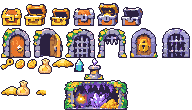
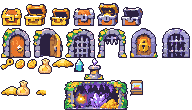
Core-loop art, asks: puzzle pieces for the found row and a special shop good, for the glints builder
Why: handoff-prompts/loop-art-cutouts.md item 5 (the glints builder, Step
14 slice B, asked by message for piece-grey, piece-gold and goods-special).

What: piece-grey, piece-gold (group levels) from the P05 HUD sheet's bottom
row; the plate cuts the pieces off below their side knobs, so the visible
top is mirrored about the knob row to close them. 12x12, not the 8x8
asked: at 8 the knobs vanish (fill 0.2-0.5 tried). goods-special (group
treasure, 16x16): the Hall atlas's crown on a cushion in its glass case.
Appended only: every existing look's pixels and rectangle are unchanged
(compared against HEAD).

Ran: make.py, selfcheck.py (0), npm run build, check: green. Looked at
loops-asks-4x.png. Not verified in the game (the glints code switches by id).
Measure row moved: none. Undo: revert the commit.

Claude-Session: https://claude.ai/code/session_017WiGzEN1QbSnHzXNqV4XSt

Changed region(s): [[0.6562, 0.7091, 0.75, 0.8727]]

diff --git a/tools/art/props/loops.py b/tools/art/props/loops.py
@@ -280,3 +280,30 @@ CLOTH = ('hall-banner-tower', 'hall-banner', 'hall-banner-laurel', 'hall-drape',
 def hall(which):
     pal = HALLR + ramps('pink') if which in CLOTH else HALLR
     return grab('hall', HALL[which], 0.2, pal, key=HALLKEY, grid=True)
+
+
+# ---- asks from the core-loop builders (brief item 5)
+def puzzle_piece(gold):
+    """The glints builder's found row (Step 14 slice B): P05 HUD sheet's bottom row, the grey and the gold jigsaw
+    piece. The plate's edge cuts each piece off below its side knobs, so the visible top is mirrored about the
+    knob row (y 498) to close it: a piece with knobs above and below is still a jigsaw piece.
+    DRAFT: 12 x 12, not the 8 x 8 asked: at 8 the knobs go and it is a blob (tried fill 0.2-0.5)."""
+    from PIL import Image, ImageOps
+    from srcimport import _cache, sheet
+    x0, x1 = (505, 572) if gold else (436, 504)
+    top = sheet('hud').crop((x0, 455, x1, 498))
+    im = Image.new('RGBA', (x1 - x0, 86), (245, 245, 244, 255))
+    im.paste(top, (0, 0))
+    im.paste(ImageOps.flip(top), (0, 43))
+    _cache['hud-piece'] = im
+    pal = ramps('gold', 'orange') if gold else ramps('stone', 'castle', 'metal')
+    return grab('hud-piece', (0, 0, x1 - x0, 86), 0, pal, key=(245, 245, 244), size=(12, 12), fill=0.3,
+                majority=False)
+
+
+def goods_special():
+    """The glints builder's once-only shop good: the Hall atlas's crown on a cushion in its glass case."""
+    g = grab('hall', HALL['hall-case-crown'], 0, HALLR + ramps('pink'), key=HALLKEY, grid=True, size=(14, 16))
+    out = new(16, 16)
+    paste(out, g, 1, 0)
+    return out

diff --git a/tools/art/props/loopshots.py b/tools/art/props/loopshots.py
@@ -125,7 +125,24 @@ def hall():
     return scene
 
 
-SCENES = {'rides': rides, 'powers': powers, 'treasure': treasure, 'hall': hall}
+def asks():
+    """the glints builder's asks in place: an entrance with its sign, pie and found pieces; the shop's goods with the
+    special one among them"""
+    lv, LL = looks('levels')
+    tr, TL = looks('treasure')
+    pr, PL = looks('parts')
+    scene = ground(140)
+    place(scene, frame(lv, LL['level-entry-arch']), 70, 140)
+    place(scene, frame(lv, LL['level-sign']), 100, 140)
+    for i, k in enumerate(('level-pie-2', 'piece-gold', 'piece-grey', 'piece-grey')):
+        scene.alpha_composite(frame(lv, LL[k]), (60 + i * 14, 94))
+    for i, k in enumerate(('shop-goods', 'goods-special', 'shop-goods')):
+        img, L = (tr, TL) if k == 'goods-special' else (pr, PL)
+        place(scene, frame(img, L[k]), 196 + i * 22, 140)
+    return scene
+
+
+SCENES = {'rides': rides, 'powers': powers, 'treasure': treasure, 'hall': hall, 'asks': asks}
 
 if __name__ == '__main__':
     os.makedirs(OUT, exist_ok=True)

diff --git a/tools/art/props/make.py b/tools/art/props/make.py
@@ -109,6 +109,7 @@ def looks_sheets():
     for n in range(5):
         s.add('level-pie-%d' % n, dv.level_pie(n))
     s.add('level-sign', dv.level_sign())
+    s.add('piece-grey', lo.puzzle_piece(False)); s.add('piece-gold', lo.puzzle_piece(True))  # glints builder's ask
     out.append(('levels', 'props/levels.png', s))
     # ---- the core loops' rides (loops.py: P04 vehicle-and-mount sheet; handoff-prompts/loop-art-cutouts.md)
     s = Sheet(192)
@@ -149,6 +150,7 @@ def looks_sheets():
     s.add('gold-pile', lo.gold_pile()); s.add('gem', lo.gem()); s.add('gem-pedestal', lo.gem_pedestal())
     s.newrow()
     s.add('hoard', lo.hoard(False)); s.add('hoard-taken', lo.hoard(True)); s.add('vault-cave', lo.vault_cave())
+    s.add('goods-special', lo.goods_special())  # the glints builder's once-only shop good
     out.append(('treasure', 'props/treasure.png', s))
     # ---- the core loops' Hall of Legends pieces (loops.py: P04 hall-of-legends atlas)
     s = Sheet(256)

diff --git a/docs/mechanisms/asset-coverage.md b/docs/mechanisms/asset-coverage.md
@@ -26,13 +26,13 @@ Rows go stale as the look3 lanes push: re-check a row against the current file b
 | Bodies (things you lift, hit or stand by) | 7 | 1 | 4 | 2 |
 | Ground tiles (16 px) | 6 | 2 | 4 | 0 |
 | Backdrops | 14 | 0 | 14 | 0 |
-| Interactive looks (props) | 26 | 17 | 7 | 0 |
+| Interactive looks (props) | 27 | 18 | 7 | 0 |
 | Decor | 43 | 12 | 25 | 6 |
 | Effects | 9 | 5 | 4 | 0 |
 | UI and HUD | 42 | 6 | 31 | 5 |
 | Sound effects | 42 | 29 | 7 | 6 |
 | Music | 8 | 0 | 0 | 8 |
-| **All** | **214** | **85** | **100** | **27** |
+| **All** | **215** | **86** | **100** | **27** |
 
 ## Path keys
 
@@ -193,6 +193,7 @@ Cuts live in tools/art/props/drive.py, round3.py and looks_parts.py.
 | `look:powers` | uses-approved | `P05/p05-rare-powers-pickups-source.png` (opaque pale ground, key (247,245,243)): row 1 fixtures y 8-134, row 2 orbs y 140-219, row 3 lost sequence y 223-326 (spark (146,225)-(192,290), stars (196,224)-(296,262), orb on its swoosh (353,223)-(452,326)), row 4 loose pieces y 338-426, row 5 pickup sequence and cloud poof y 426-512 (x boxes in loops.py). Group `powers`: pickup-*, item-*, power-fixture-*, fx-pickup-glow/-get, fx-power-lost, fx-poof. | The plate's row 5 runs off its bottom edge (the column and burst are cut at y 512). item-spring is mush at 16 px. No game code draws them yet. |
 | `look:treasure` | uses-approved | `P07/vibrant-platformer-interactables-sprite-sheet.png` row 1 chests (wood closed (195,95)-(330,215), open (370,70)-(505,215), empty (545,95)-(670,215); iron the same at x 800-1290), row 2 doors (ring door shut (35,240)-(212,415), open (212,240)-(390,415), portcullis down (410,240)-(595,415), raised (600,240)-(785,415)), key (30,980)-(130,1065), coins (1005,985)-(1165,1065), sack (780,960)-(875,1075), gem on post (610,795)-(745,935); `P05/p05-secrets-doors-breakables-source.png` padlocked door (102,68)-(200,172), barred door (424,68)-(524,172), vault cave (526,372)-(758,482); `P04/chibi-pixel-interactables-sprite-sheet.png` crystal (240,380)-(320,470); `P04/cantina-tavern-hub-tileset.png` coin heap (566,1040)-(643,1075). Group `treasure` (loops.py). | `hoard`/`hoard-taken` (32x16: the sack on the heap; a few coins) are ready for depot-hoard, whose placement still says `goods` (Step 16's to repoint). P05's own vault gold pile sits on the cave floor and does not cut clean. |
 | `look:hall` | uses-approved | `P04/hall-of-legends-tile-atlas.png` (opaque pale ground with drawn cell lines: key (247,247,247), grid=True), scale 0.2: plinths (38-272, 398-495), niches (610-1095, 395-497), plaques/shield/banners/drape (38-1320, 510-608), lantern/torch/braziers (40-610, 598-684), doors/window/portals (30-1125, 692-808), statues and keepsakes (35-1420, 885-1062), gold-edged frames (362-517, 114-192); per-piece boxes in loops.HALL. Group `hall`. | The wood doors lose their pale stone arch to the ground key (wood and gold rim only). Statues are thin at 0.2. hall-frame/-frame-star are about 14x16: small for a hall picture; scale up if the picture needs it. No game code draws them yet. |
+| `look:piece` | uses-approved | `P05/p05-ui-hero-party-hud-source.png` bottom row: grey piece x 436-504, gold x 505-572, y 455-498 (the plate's edge cuts them below the side knobs; mirrored about y 498 to close). `piece-grey`, `piece-gold` 12x12 (group `levels`); `goods-special` is the hall-case-crown cut at 14x16 (group `treasure`). | At 8 px the piece is a blob, so 12. |
 
 ## Decor
 

diff --git a/tools/art/props/README.md b/tools/art/props/README.md
@@ -189,6 +189,10 @@ bottom-centred over an entrance; `level-pie-0`..`4` 12x12 (none, a quarter, half
   `hall-urn`, `hall-frame{,-star}`. The plate's banner mauve needs the pink ramp (cloth pieces only: on stone, pink
   speckles). The wood doors lose their pale stone arch to the ground key. The walls, floors and arches are the ground
   lane's tiles, not these.
+- **Asks from core-loop builders (item 5).** The glints builder (Step 14 slice B): `piece-grey`, `piece-gold` in
+  group `levels` (P05 HUD bottom row; the plate cuts the pieces off below their side knobs, so the top is mirrored
+  to close them) at 12x12, not the 8x8 asked: at 8 the knobs vanish; `goods-special` in group `treasure` (16x16, the
+  Hall atlas's crown on a cushion in its case). Scene: `loops-asks-4x.png`.
 - **No approved source:** an empty machine or an empty saddle: every cell has the same goggled rider baked in, so a
   hero cannot be drawn riding one without that rider showing (for the Drive's missing-assets list).
 - **Not verified in the game:** no code draws a ride yet; seen in the mock scene only.
